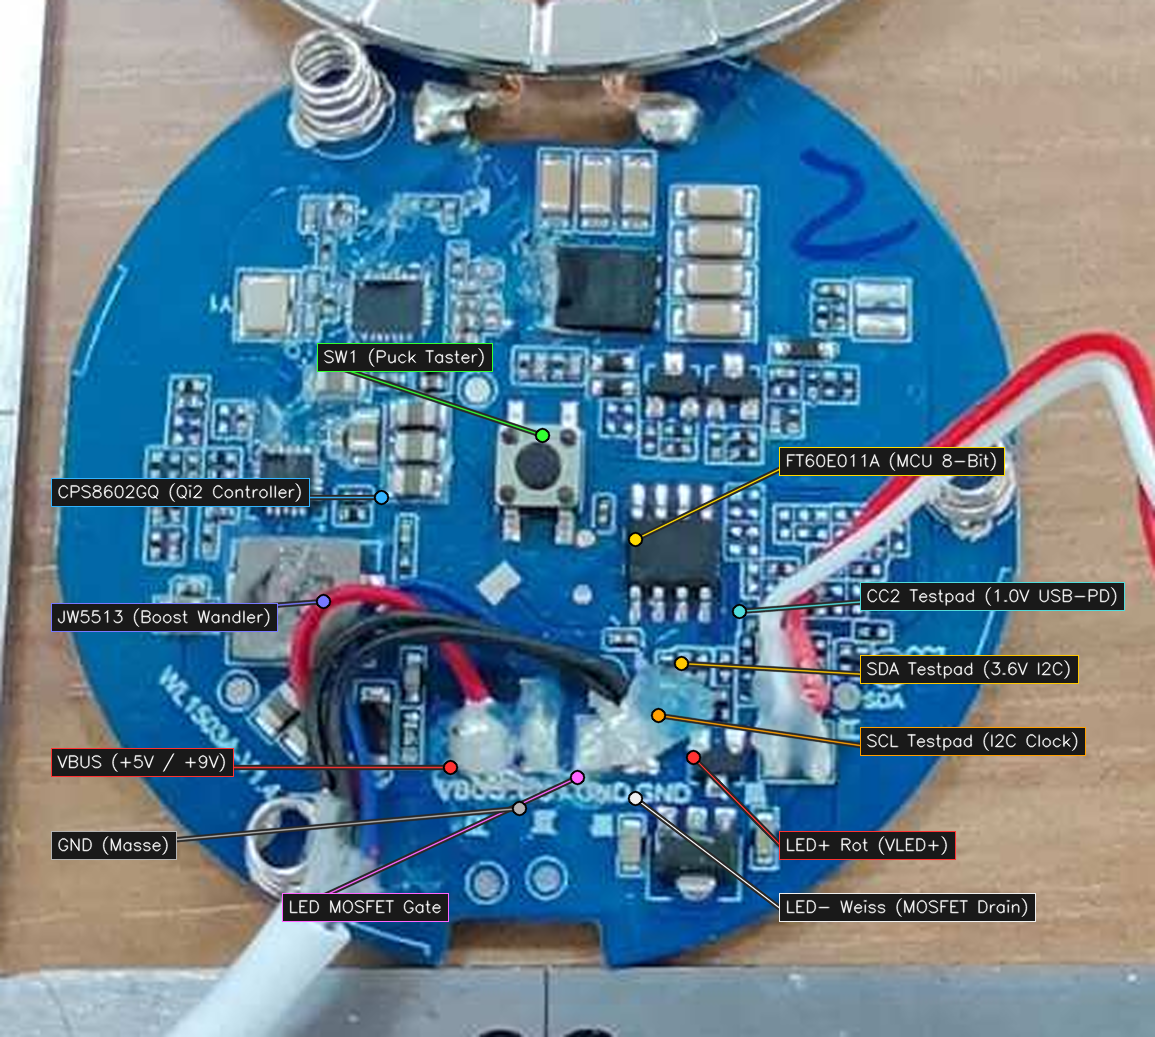
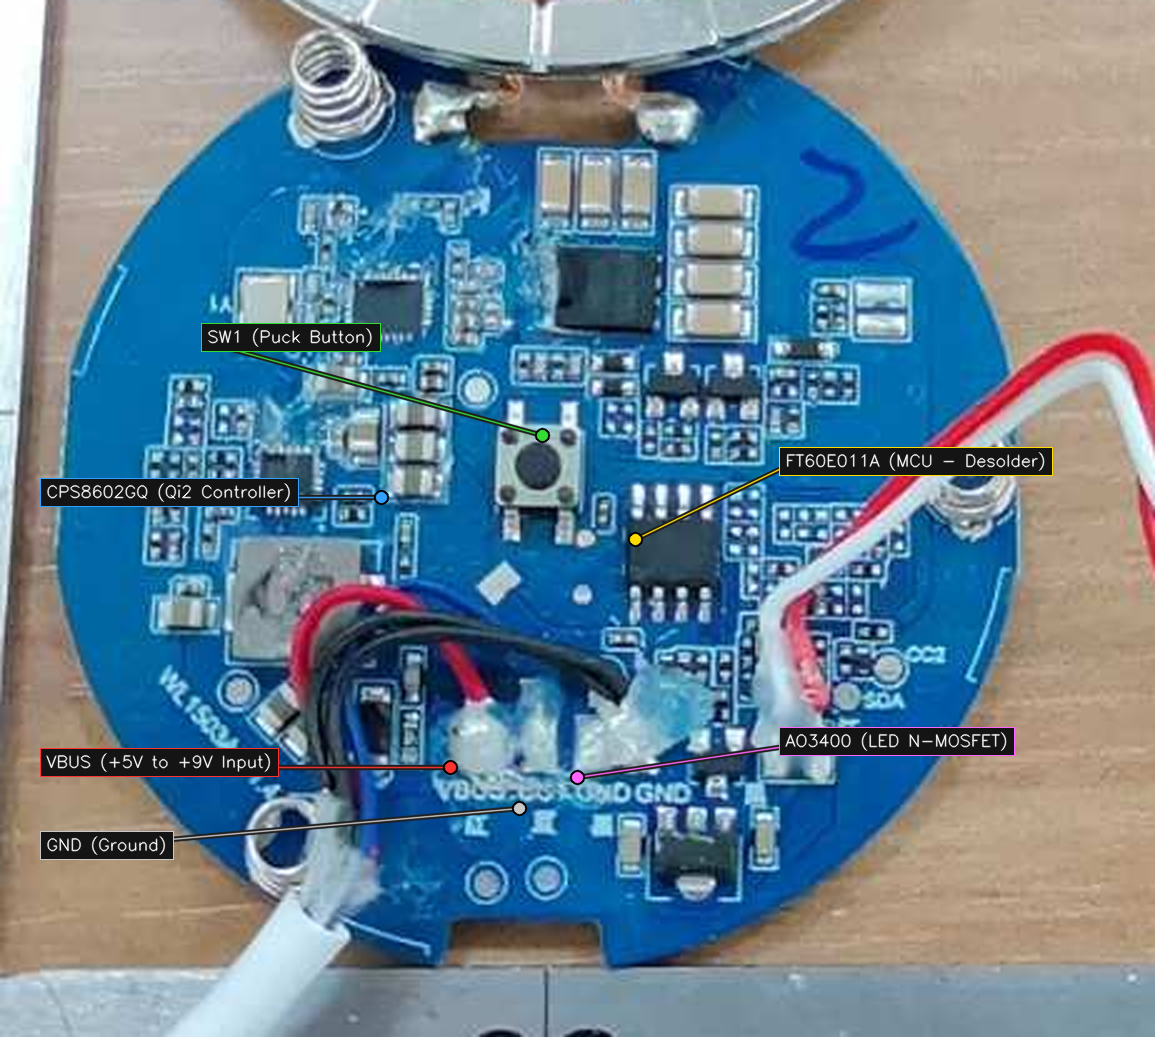
feat: expose all button events to HA, add lamp toggle switch, and update minimal English image annotations

diff --git a/README.md b/README.md
@@ -42,7 +42,7 @@ The `DD4012SA` buck converter steps down the variable `VBUS` (5V standby, 9V dur
 
 ## Wiring & Solder Points
 
-![MCU Pads](images/mcu_pads.jpeg)  
+![MCU Pads](images/mcu_pads.png)  
 *Figure 2: MCU location and solder pads (FT60E011A desoldered).*
 
 ![Power Pads](images/power_pads.png)  
@@ -104,11 +104,12 @@ light:
     restore_mode: RESTORE_DEFAULT_OFF
 ```
 
-### Button Behavior (Single, Double & Long Press)
+### Button & Event Behavior
 
-The physical puck button fires native Home Assistant events (`single_press`, `double_press`, `long_press`) and controls the lamp locally:
+All button events (`single_press`, `double_press`, `long_press`) are exposed to Home Assistant via a native `event` entity. A configuration switch allows you to choose whether a single click should toggle the lamp locally:
 
 ```yaml
+# Exposed to Home Assistant as: event.ikea_vastmarke_button_event
 event:
   - platform: template
     name: "Button Event"
@@ -117,6 +118,16 @@ event:
       - single_press
       - double_press
       - long_press
+
+# Configuration toggle in Home Assistant
+switch:
+  - platform: template
+    name: "Single Click Controls Lamp"
+    id: single_click_controls_lamp
+    icon: "mdi:lightbulb-auto"
+    optimistic: true
+    restore_mode: RESTORE_DEFAULT_ON
+    entity_category: config
 
 binary_sensor:
   - platform: gpio
@@ -129,17 +140,25 @@ binary_sensor:
     filters:
       - delayed_on_off: 25ms
     on_multi_click:
-      # Single Click: Toggle light & fire single_press event
+      # Single Click: Fires event to HA; toggles lamp if toggle is ON
       - timing:
           - ON for at most 400ms
           - OFF for at least 250ms
         then:
-          - light.toggle: mood_light
           - event.trigger:
               id: puck_event
               event_type: single_press
+          - homeassistant.event:
+              event: esphome.ikea_vastmarke_button
+              data:
+                action: single_click
+          - if:
+              condition:
+                switch.is_on: single_click_controls_lamp
+              then:
+                - light.toggle: mood_light
 
-      # Double Click: Fire double_press event (e.g. good night routine)
+      # Double Click: Fires double_press event to Home Assistant
       - timing:
           - ON for at most 400ms
           - OFF for at most 400ms
@@ -149,18 +168,30 @@ binary_sensor:
           - event.trigger:
               id: puck_event
               event_type: double_press
+          - homeassistant.event:
+              event: esphome.ikea_vastmarke_button
+              data:
+                action: double_click
 
-      # Long Press: Relative dimming & fire long_press event
+      # Long Press: Fires long_press event to Home Assistant
       - timing:
           - ON for at least 500ms
         then:
-          - light.dim_relative:
-              id: mood_light
-              relative_brightness: 25%
-              transition_length: 300ms
           - event.trigger:
               id: puck_event
               event_type: long_press
+          - homeassistant.event:
+              event: esphome.ikea_vastmarke_button
+              data:
+                action: long_press
+          - if:
+              condition:
+                switch.is_on: single_click_controls_lamp
+              then:
+                - light.dim_relative:
+                    id: mood_light
+                    relative_brightness: 25%
+                    transition_length: 300ms
 ```
 
 ---
